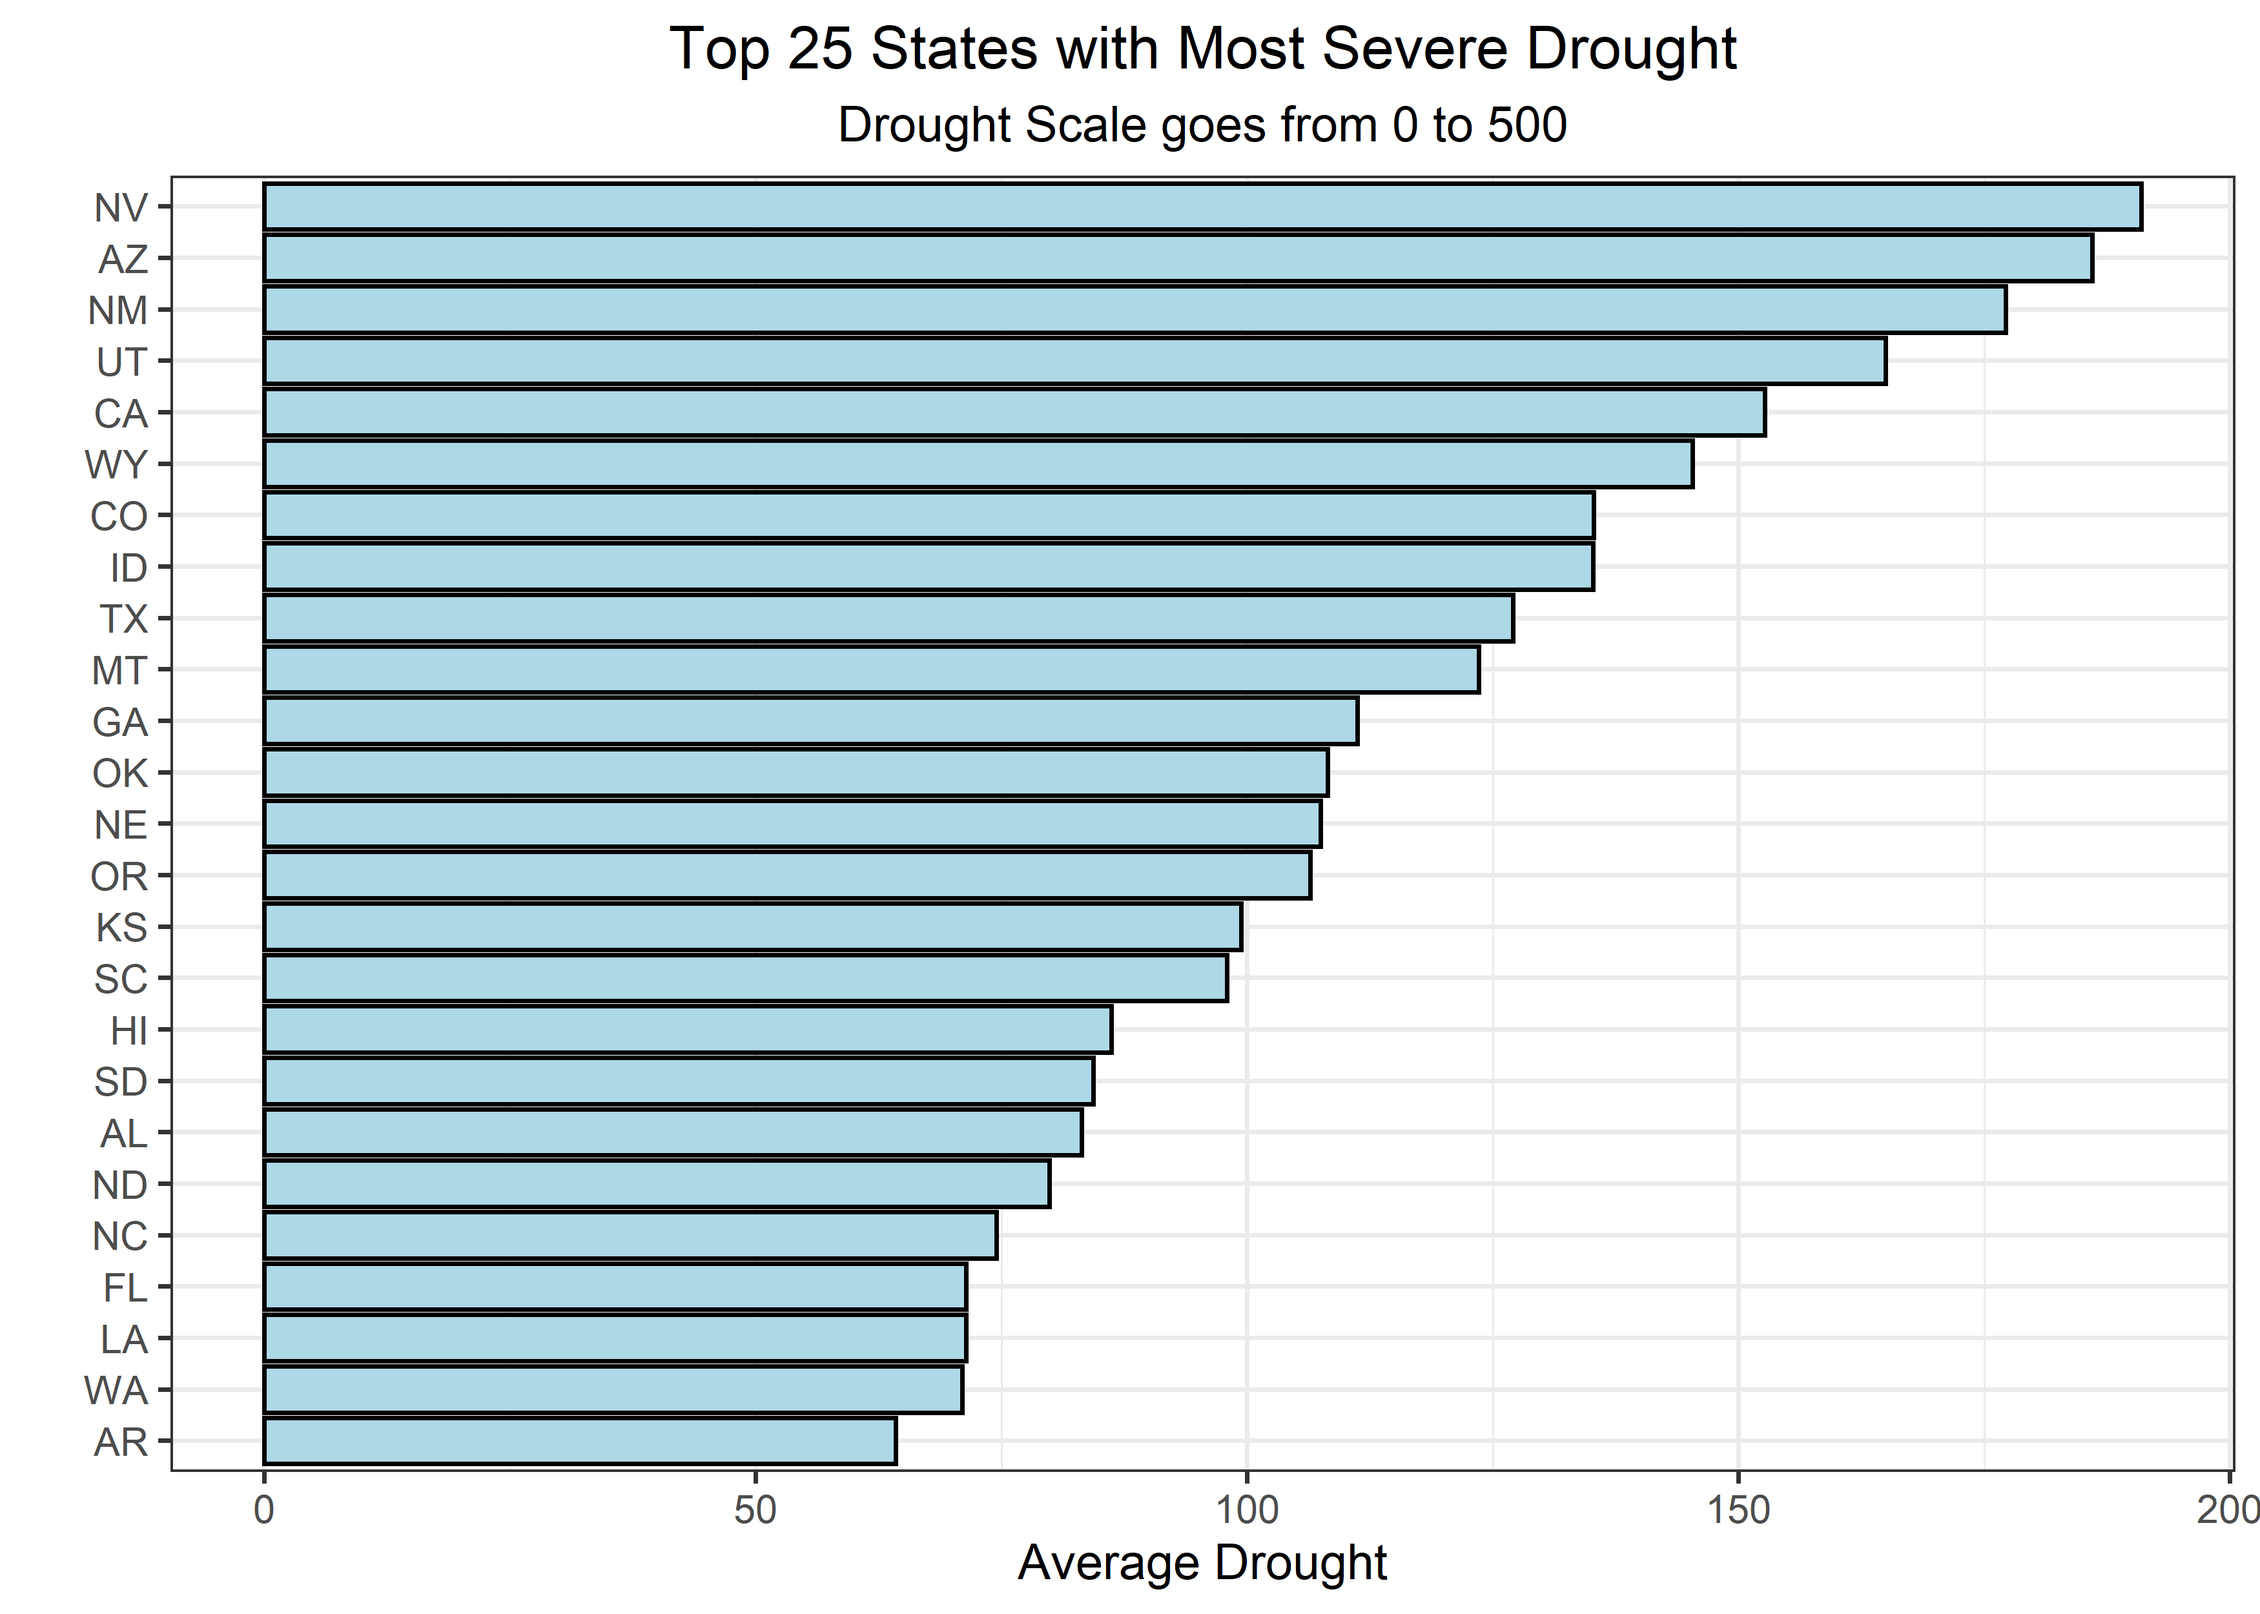
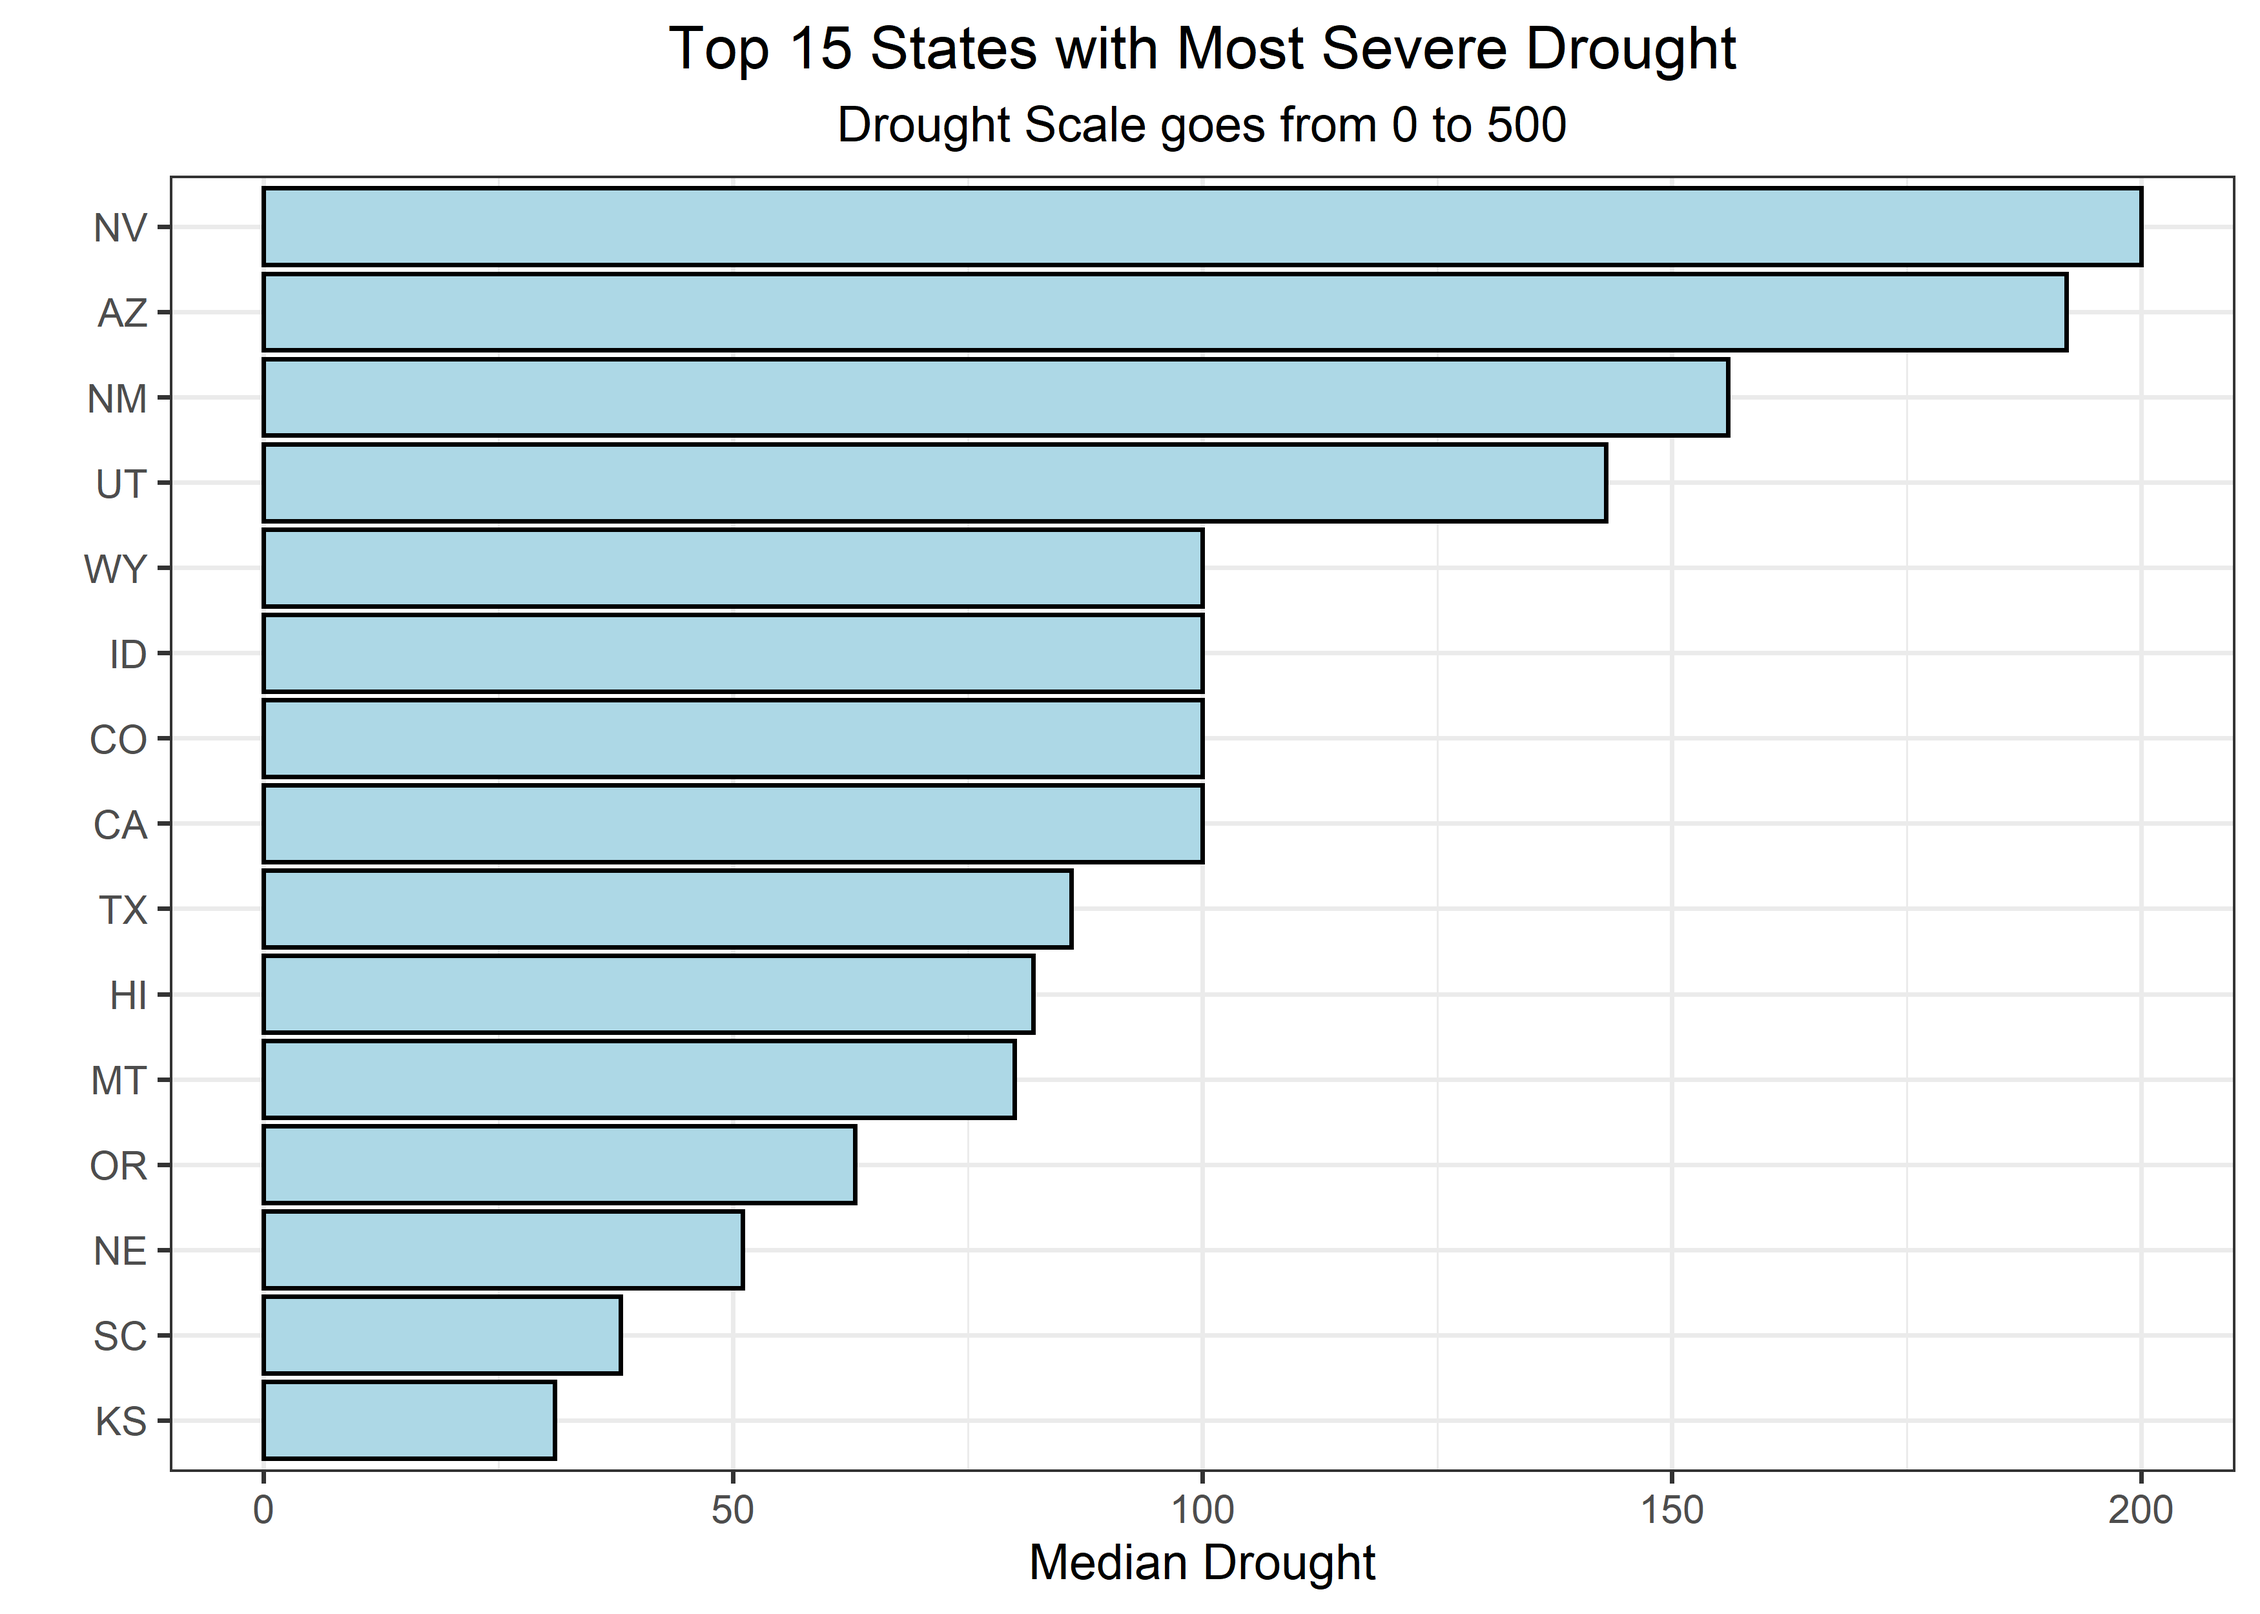
Before work commit. Up to sarima forcast and coloring seasonality

diff --git a/06-14-22/Drought.md b/06-14-22/Drought.md
@@ -116,14 +116,227 @@ drought %>%
 ``` r
 drought_fips %>% 
   group_by(State) %>% 
-  summarize(m = mean(DSCI)) %>% 
+  summarize(m = median(DSCI)) %>% 
   arrange(-m) %>% 
-  head(25) %>% 
+  head(15) %>% 
   ggplot(aes(m, fct_reorder(State,m))) + geom_col(color = "black", fill = "lightblue") +
-  labs(y = "", x = "Average Drought", 
-       title = "Top 25 States with Most Severe Drought", subtitle = "Drought Scale goes from 0 to 500")  +
+  labs(y = "", x = "Median Drought", 
+       title = "Top 15 States with Most Severe Drought", subtitle = "Drought Scale goes from 0 to 500")  +
   theme(plot.title = element_text(hjust = 0.5), 
         plot.subtitle = element_text(hjust = 0.5))
 ```
 
 ![](Drought_files/figure-gfm/unnamed-chunk-5-1.png)<!-- -->
+
+``` r
+avg_drought <- drought_fips %>% 
+  group_by(date) %>% 
+  summarize(avg_drought = mean(DSCI)) %>% 
+  mutate(month = month(date, label = TRUE))
+
+avg_drought %>% 
+  ggplot(aes(date, avg_drought)) + geom_line() + 
+  geom_point(aes(color = as.numeric(month))) + facet_wrap(~year(date), scales = "free") +
+  scale_color_gradient2(low = "blue", mid = "black", high = "blue", midpoint = 6)
+```
+
+![](Drought_files/figure-gfm/unnamed-chunk-6-1.png)<!-- -->
+
+``` r
+avg_drought %>% 
+  ggplot(aes(date, avg_drought)) + geom_line() + 
+  geom_point(aes(color = month))
+```
+
+![](Drought_files/figure-gfm/unnamed-chunk-6-2.png)<!-- -->
+
+# Fitting an AR model on the timeseries
+
+``` r
+library(astsa)
+timeseries <- ts(avg_drought$avg_drought, start = c(2000, 1), freq = 52)
+
+plot(timeseries)
+```
+
+![](Drought_files/figure-gfm/unnamed-chunk-7-1.png)<!-- -->
+
+``` r
+acf2(timeseries)
+```
+
+![](Drought_files/figure-gfm/unnamed-chunk-7-2.png)<!-- -->
+
+    ##      [,1]  [,2]  [,3] [,4]  [,5] [,6]  [,7]  [,8] [,9] [,10] [,11] [,12] [,13]
+    ## ACF  0.98  0.96  0.93 0.90  0.88 0.85  0.82  0.79 0.76  0.73  0.71  0.69  0.67
+    ## PACF 0.98 -0.29 -0.08 0.02 -0.02 0.00 -0.05 -0.01 0.02  0.01  0.04  0.02  0.03
+    ##      [,14] [,15] [,16] [,17] [,18] [,19] [,20] [,21] [,22] [,23] [,24] [,25]
+    ## ACF   0.65  0.63  0.61  0.60  0.58  0.56  0.54  0.53  0.51  0.49  0.48  0.46
+    ## PACF  0.00  0.02  0.01 -0.03 -0.08 -0.02 -0.01  0.05  0.01 -0.02  0.00  0.02
+    ##      [,26] [,27] [,28] [,29] [,30] [,31] [,32] [,33] [,34] [,35] [,36] [,37]
+    ## ACF   0.45  0.43  0.42  0.40  0.39  0.37  0.36  0.35  0.34  0.33  0.31  0.30
+    ## PACF  0.03  0.00 -0.04 -0.06  0.03 -0.02  0.04 -0.01  0.01 -0.03 -0.03  0.03
+    ##      [,38] [,39] [,40] [,41] [,42] [,43] [,44] [,45] [,46] [,47] [,48] [,49]
+    ## ACF   0.29  0.28  0.27  0.26  0.25  0.24  0.24  0.23  0.23  0.23  0.23  0.23
+    ## PACF  0.01  0.00 -0.01  0.03  0.02  0.00  0.00  0.06  0.01  0.04  0.05  0.00
+    ##      [,50] [,51] [,52] [,53] [,54] [,55] [,56] [,57] [,58] [,59] [,60] [,61]
+    ## ACF   0.23  0.24  0.24  0.25  0.25  0.26  0.26  0.26  0.26  0.25  0.25  0.24
+    ## PACF  0.02  0.05 -0.01 -0.01  0.01 -0.02 -0.07  0.05 -0.06 -0.04 -0.05 -0.04
+    ##      [,62] [,63] [,64] [,65] [,66] [,67] [,68] [,69] [,70] [,71] [,72] [,73]
+    ## ACF   0.23  0.22  0.20  0.19  0.17  0.16  0.15  0.14  0.13  0.12  0.11   0.1
+    ## PACF -0.06 -0.02 -0.03  0.05 -0.02  0.05 -0.01 -0.01 -0.02 -0.04  0.00   0.0
+    ##      [,74] [,75] [,76] [,77] [,78] [,79] [,80] [,81] [,82] [,83] [,84] [,85]
+    ## ACF   0.09  0.09  0.08  0.07  0.06  0.05  0.04  0.03  0.02  0.01  0.01  0.00
+    ## PACF  0.00  0.01 -0.08  0.04  0.00  0.00  0.03 -0.04 -0.02  0.03  0.04 -0.02
+    ##      [,86] [,87] [,88] [,89] [,90] [,91] [,92] [,93] [,94] [,95] [,96] [,97]
+    ## ACF  -0.01 -0.01 -0.02 -0.02 -0.03 -0.04 -0.05 -0.06 -0.06 -0.07 -0.08 -0.09
+    ## PACF  0.00  0.00 -0.01 -0.01 -0.03  0.02 -0.01 -0.03  0.03  0.00 -0.06 -0.04
+    ##      [,98] [,99] [,100] [,101] [,102] [,103] [,104] [,105] [,106] [,107] [,108]
+    ## ACF   -0.1 -0.11  -0.12  -0.13  -0.14  -0.15  -0.16  -0.16  -0.17  -0.18  -0.19
+    ## PACF   0.0  0.02   0.00  -0.06  -0.03   0.02  -0.03  -0.02  -0.04  -0.05  -0.01
+    ##      [,109] [,110] [,111] [,112] [,113] [,114] [,115] [,116] [,117] [,118]
+    ## ACF   -0.20  -0.21  -0.21  -0.22  -0.22  -0.22  -0.23  -0.23  -0.23  -0.24
+    ## PACF  -0.01   0.05  -0.02   0.04  -0.02   0.02   0.01  -0.02  -0.04  -0.02
+    ##      [,119] [,120] [,121] [,122] [,123] [,124] [,125] [,126] [,127] [,128]
+    ## ACF   -0.24  -0.25  -0.26  -0.26  -0.26  -0.27  -0.27  -0.27  -0.28  -0.28
+    ## PACF   0.02  -0.03   0.00   0.03   0.03   0.04  -0.02   0.01  -0.01  -0.02
+    ##      [,129] [,130] [,131] [,132] [,133] [,134] [,135] [,136] [,137] [,138]
+    ## ACF   -0.28  -0.28  -0.28  -0.28  -0.28  -0.28  -0.28  -0.28  -0.29  -0.29
+    ## PACF   0.02  -0.01   0.01   0.00  -0.03  -0.03  -0.02  -0.01   0.00  -0.04
+    ##      [,139] [,140] [,141] [,142] [,143] [,144] [,145] [,146] [,147] [,148]
+    ## ACF   -0.29  -0.30  -0.30  -0.30  -0.29  -0.29  -0.28  -0.28  -0.27  -0.27
+    ## PACF   0.01   0.01   0.06   0.04  -0.02  -0.01   0.00   0.00   0.02  -0.03
+    ##      [,149] [,150] [,151] [,152] [,153] [,154] [,155] [,156] [,157] [,158]
+    ## ACF   -0.26  -0.26  -0.26  -0.25  -0.25  -0.25  -0.25  -0.25  -0.25  -0.25
+    ## PACF  -0.01  -0.04  -0.02   0.05   0.00  -0.05   0.01   0.05  -0.05   0.01
+    ##      [,159] [,160] [,161] [,162] [,163] [,164] [,165] [,166] [,167] [,168]
+    ## ACF   -0.26  -0.26  -0.26  -0.26  -0.26  -0.25  -0.25  -0.25  -0.24  -0.24
+    ## PACF  -0.02   0.01   0.05   0.01   0.00   0.03   0.00   0.01   0.00   0.00
+    ##      [,169] [,170] [,171] [,172] [,173] [,174] [,175] [,176] [,177] [,178]
+    ## ACF   -0.24  -0.23  -0.23  -0.23  -0.22  -0.22  -0.21  -0.21   -0.2  -0.20
+    ## PACF  -0.02   0.00   0.01  -0.03   0.08  -0.02  -0.02   0.01    0.0   0.02
+    ##      [,179] [,180] [,181] [,182] [,183] [,184] [,185] [,186] [,187] [,188]
+    ## ACF   -0.19  -0.19  -0.18  -0.17  -0.16  -0.15  -0.14  -0.13  -0.12  -0.11
+    ## PACF   0.03   0.08   0.02  -0.05   0.00   0.01  -0.01   0.02  -0.02   0.03
+    ##      [,189] [,190] [,191] [,192] [,193] [,194] [,195] [,196] [,197] [,198]
+    ## ACF   -0.10  -0.09  -0.08  -0.08  -0.07  -0.06  -0.05  -0.04  -0.04  -0.03
+    ## PACF   0.04  -0.04   0.04   0.02   0.00   0.03   0.00   0.03   0.01   0.02
+    ##      [,199] [,200] [,201] [,202] [,203] [,204] [,205] [,206] [,207] [,208]
+    ## ACF   -0.02  -0.01   0.01   0.02   0.03   0.04   0.05   0.05   0.06   0.07
+    ## PACF   0.02   0.00  -0.04  -0.02   0.02   0.00  -0.01  -0.01  -0.06   0.00
+
+``` r
+sarima(timeseries, 3, 0, 0)
+```
+
+    ## initial  value 3.560632 
+    ## iter   2 value 2.797719
+    ## iter   3 value 2.376154
+    ## iter   4 value 2.175328
+    ## iter   5 value 1.888586
+    ## iter   6 value 1.771550
+    ## iter   7 value 1.759975
+    ## iter   8 value 1.750926
+    ## iter   9 value 1.744016
+    ## iter  10 value 1.743581
+    ## iter  11 value 1.743574
+    ## iter  12 value 1.743574
+    ## iter  12 value 1.743574
+    ## final  value 1.743574 
+    ## converged
+    ## initial  value 1.745521 
+    ## iter   2 value 1.745520
+    ## iter   3 value 1.745520
+    ## iter   4 value 1.745519
+    ## iter   5 value 1.745518
+    ## iter   6 value 1.745518
+    ## iter   7 value 1.745518
+    ## iter   8 value 1.745518
+    ## iter   9 value 1.745517
+    ## iter  10 value 1.745517
+    ## iter  11 value 1.745517
+    ## iter  12 value 1.745517
+    ## iter  13 value 1.745517
+    ## iter  14 value 1.745517
+    ## iter  15 value 1.745516
+    ## iter  16 value 1.745515
+    ## iter  17 value 1.745514
+    ## iter  18 value 1.745512
+    ## iter  19 value 1.745511
+    ## iter  20 value 1.745511
+    ## iter  21 value 1.745510
+    ## iter  22 value 1.745510
+    ## iter  23 value 1.745510
+    ## iter  24 value 1.745510
+    ## iter  24 value 1.745510
+    ## iter  24 value 1.745510
+    ## final  value 1.745510 
+    ## converged
+
+![](Drought_files/figure-gfm/unnamed-chunk-7-3.png)<!-- -->
+
+    ## $fit
+    ## 
+    ## Call:
+    ## arima(x = xdata, order = c(p, d, q), seasonal = list(order = c(P, D, Q), period = S), 
+    ##     xreg = xmean, include.mean = FALSE, transform.pars = trans, fixed = fixed, 
+    ##     optim.control = list(trace = trc, REPORT = 1, reltol = tol))
+    ## 
+    ## Coefficients:
+    ##          ar1      ar2      ar3    xmean
+    ##       1.2529  -0.2005  -0.0730  76.1937
+    ## s.e.  0.0291   0.0465   0.0292   7.9179
+    ## 
+    ## sigma^2 estimated as 32.72:  log likelihood = -3705.57,  aic = 7421.14
+    ## 
+    ## $degrees_of_freedom
+    ## [1] 1167
+    ## 
+    ## $ttable
+    ##       Estimate     SE t.value p.value
+    ## ar1     1.2529 0.0291 43.0132  0.0000
+    ## ar2    -0.2005 0.0465 -4.3165  0.0000
+    ## ar3    -0.0730 0.0292 -2.4998  0.0126
+    ## xmean  76.1937 7.9179  9.6229  0.0000
+    ## 
+    ## $AIC
+    ## [1] 6.337436
+    ## 
+    ## $AICc
+    ## [1] 6.337465
+    ## 
+    ## $BIC
+    ## [1] 6.359066
+
+``` r
+sarima.for(timeseries, 52, 3, 0, 0)
+```
+
+![](Drought_files/figure-gfm/unnamed-chunk-7-4.png)<!-- -->
+
+    ## $pred
+    ## Time Series:
+    ## Start = c(2022, 28) 
+    ## End = c(2023, 27) 
+    ## Frequency = 52 
+    ##  [1] 87.30162 86.56928 86.05400 85.65665 85.31558 85.00553 84.71446 84.43682
+    ##  [9] 84.16997 83.91253 83.66376 83.42316 83.19039 82.96514 82.74716 82.53621
+    ## [17] 82.33205 82.13446 81.94323 81.75816 81.57904 81.40569 81.23792 81.07555
+    ## [25] 80.91841 80.76633 80.61914 80.47669 80.33882 80.20539 80.07626 79.95128
+    ## [33] 79.83033 79.71327 79.59998 79.49033 79.38422 79.28152 79.18212 79.08593
+    ## [41] 78.99283 78.90273 78.81553 78.73113 78.64946 78.57041 78.49390 78.41986
+    ## [49] 78.34820 78.27885 78.21173 78.14677
+    ## 
+    ## $se
+    ## Time Series:
+    ## Start = c(2022, 28) 
+    ## End = c(2023, 27) 
+    ## Frequency = 52 
+    ##  [1]  5.719724  9.169136 12.058747 14.448171 16.456255 18.169767 19.653165
+    ##  [8] 20.953113 22.103795 23.130696 24.053226 24.886496 25.642510 26.330987
+    ## [15] 26.959926 27.536006 28.064876 28.551363 28.999634 29.413315 29.795583
+    ## [22] 30.149243 30.476778 30.780406 31.062110 31.323672 31.566701 31.792651
+    ## [29] 32.002842 32.198474 32.380643 32.550347 32.708504 32.855953 32.993464
+    ## [36] 33.121747 33.241455 33.353191 33.457511 33.554929 33.645921 33.730926
+    ## [43] 33.810353 33.884580 33.953958 34.018813 34.079449 34.136145 34.189166
+    ## [50] 34.238753 34.285134 34.328521
